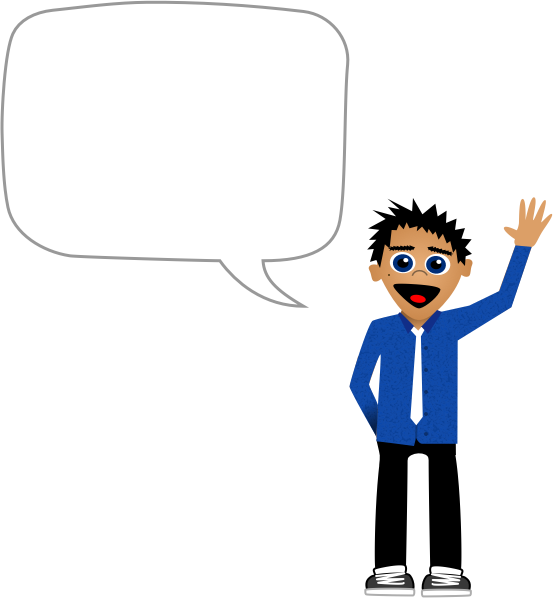
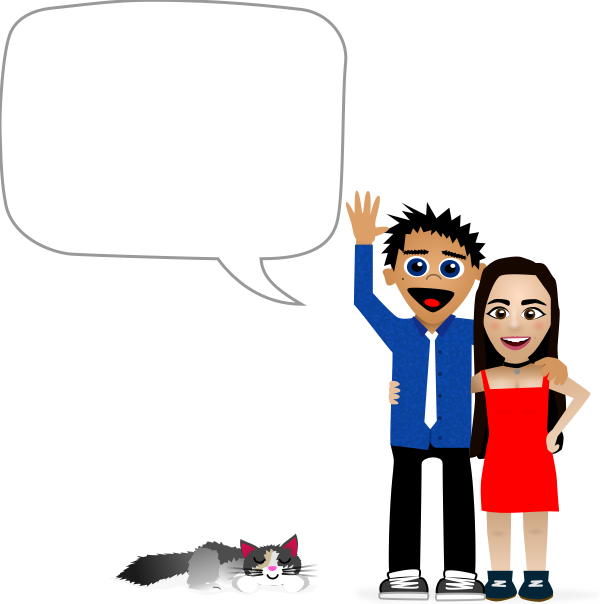
Changed footer image

Changed region(s): [[0.0307, 0.0, 1.0, 1.0], [0.1841, 0.8729, 0.5217, 0.9933], [0.0, 0.0, 0.4296, 0.3612]]

diff --git a/public/stylesheets/application.css b/public/stylesheets/application.css
@@ -69,8 +69,8 @@ article > p > iframe { max-width: 100%; height: 270px; margin: 10px 0; }
 
 /* About */
 body > footer { margin: 60px 0 30px 0; }
-body > footer > h2 { background: url(/images/nathan.png) no-repeat top; font-size: 15px; font-weight: normal; line-height: 18px; height: 320px; width: 280px; margin: auto; position: relative; }
-body > footer > h2 > span { color: #444; display: block; font-family: "Gloria Hallelujah"; font-size: 17px; line-height: 24px; margin: auto; width: 130px; position: absolute; top: 18px; left: 30px; }
+body > footer > h2 { background: url(/images/nathan.png) no-repeat top; font-size: 15px; font-weight: normal; line-height: 18px; height: 302px; width: 300px; margin: 0 auto 20px; position: relative; }
+body > footer > h2 > span { color: #444; display: block; font-family: "Gloria Hallelujah"; font-size: 17px; line-height: 24px; margin: auto; width: 130px; position: absolute; top: 18px; left: 26px; }
 body > footer > h2 > span > a { color: black; text-decoration: none; }
 body > footer > section { color: #999; text-align: center; font-size: 14px; font-weight: bold; margin-bottom: 5px; }
 body > footer > section > a { color: #999; }
@@ -145,5 +145,5 @@ only screen and (-moz-min-device-pixel-ratio: 1.5),
 only screen and (-o-min-device-pixel-ratio: 3/2),
 only screen and (min-device-pixel-ratio: 1.5) {
   body > header > h1 > a { background-image: url(/images/logo@2x.png); background-size: 84px 91px; }
-  body > footer > h2 { background-image: url(/images/nathan@2x.png); background-size: 277px 299px; }
+  body > footer > h2 { background-image: url(/images/nathan@2x.png); background-size: 300px 302px; }
 }
